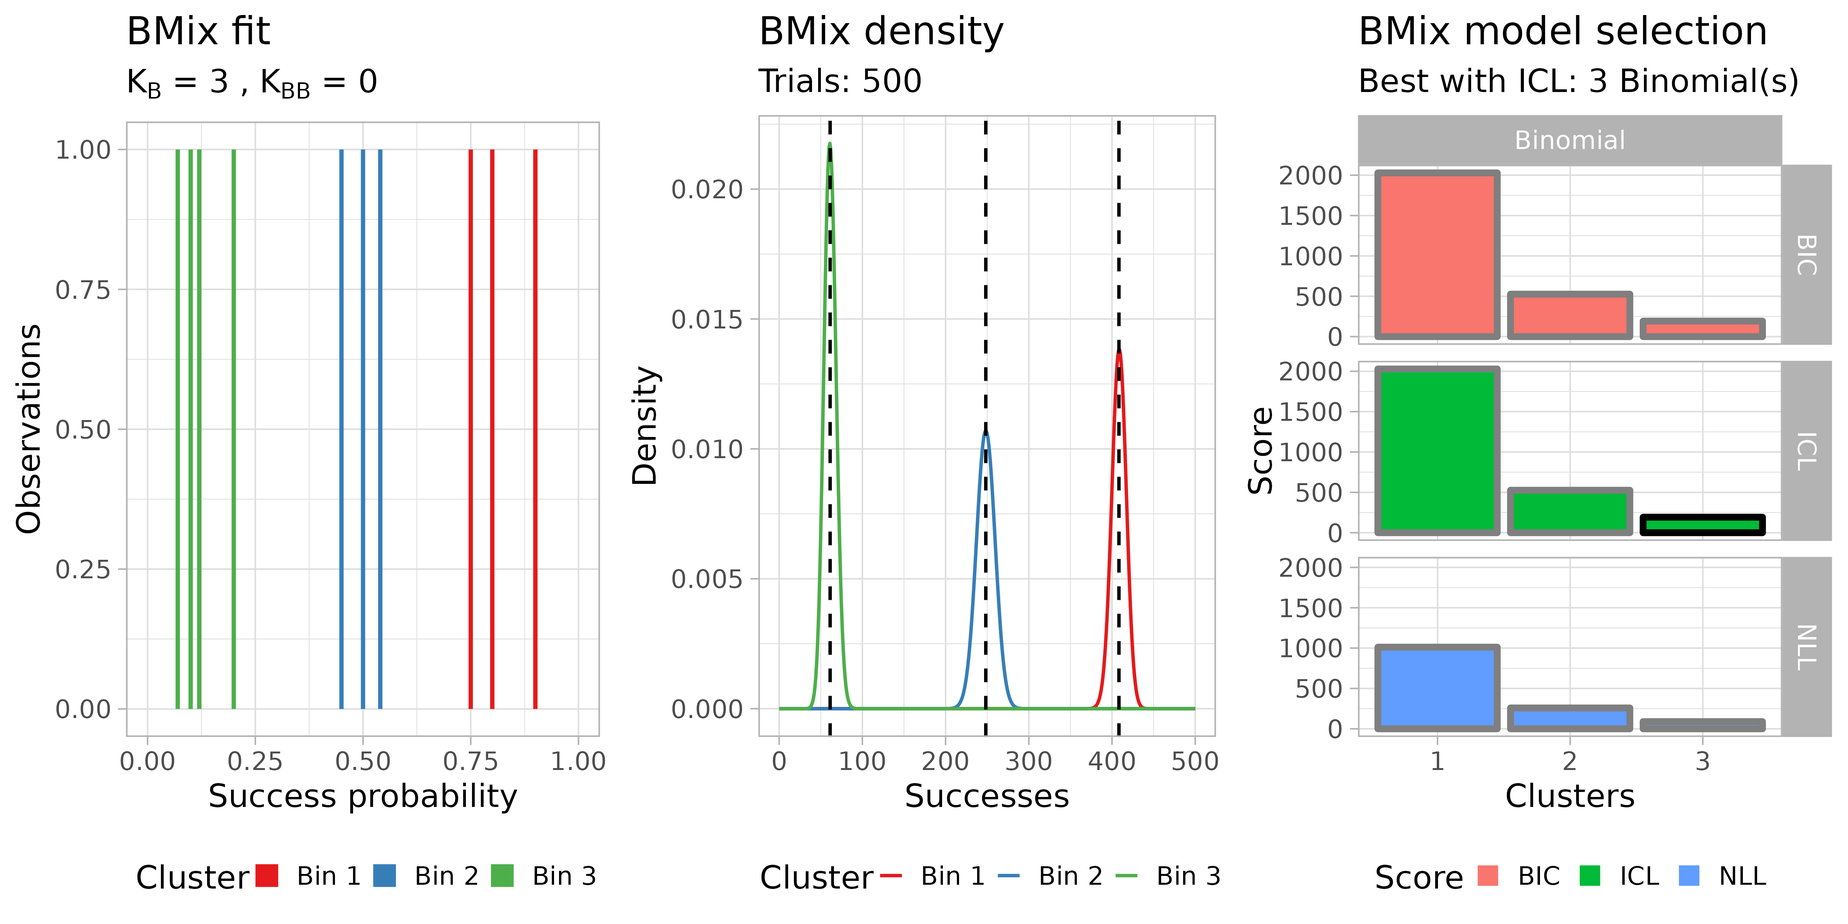
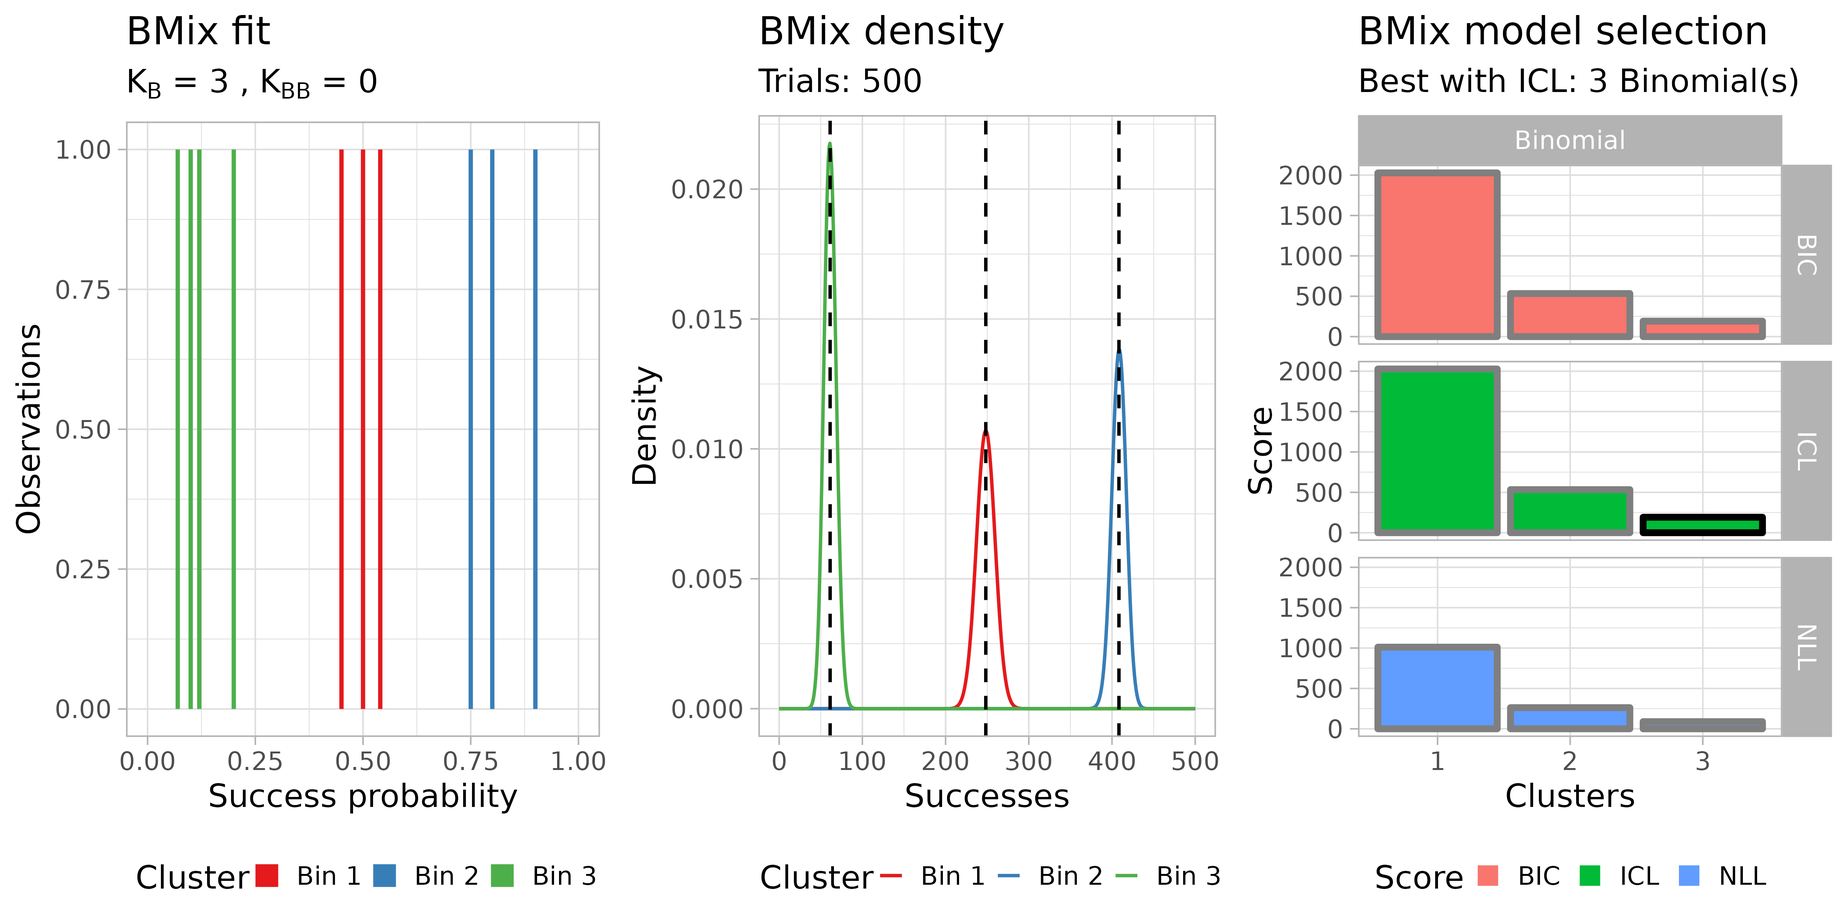
Deploying to gh-pages from @ caravagnalab/TAPACLOTH@b459b3f4f0f05527d034af44d3749eafd201754b 🚀

diff --git a/articles/classify-and-plot.html b/articles/classify-and-plot.html
@@ -266,7 +266,7 @@ q^{\text{loh}} = \inf\left\{x \in [x_1,\dots,x_N] \mid Pr(X\leq x)\geq \frac{2}{
            nv <span class="op">=</span> <span class="fu"><a href="https://rdrr.io/r/base/seq.html" class="external-link">seq</a></span><span class="op">(</span><span class="fl">10</span>,<span class="fl">100</span>,<span class="fl">4.6</span><span class="op">)</span> <span class="op"><a href="https://magrittr.tidyverse.org/reference/pipe.html" class="external-link">%&gt;%</a></span> <span class="fu"><a href="https://rdrr.io/r/base/Round.html" class="external-link">round</a></span><span class="op">(</span><span class="fl">0</span><span class="op">)</span>,
            dp <span class="op">=</span> <span class="fl">100</span>,
            VAF <span class="op">=</span> <span class="op">(</span><span class="fu"><a href="https://rdrr.io/r/base/seq.html" class="external-link">seq</a></span><span class="op">(</span><span class="fl">10</span>,<span class="fl">100</span>,<span class="fl">4.6</span><span class="op">)</span> <span class="op"><a href="https://magrittr.tidyverse.org/reference/pipe.html" class="external-link">%&gt;%</a></span> <span class="fu"><a href="https://rdrr.io/r/base/Round.html" class="external-link">round</a></span><span class="op">(</span><span class="fl">0</span><span class="op">)</span><span class="op">)</span><span class="op">/</span><span class="fl">100</span>,
-           purity <span class="op">=</span> <span class="fu"><a href="https://rdrr.io/r/base/Log.html" class="external-link">exp</a></span><span class="op">(</span><span class="fu"><a href="https://rdrr.io/r/base/Log.html" class="external-link">log</a></span><span class="op">(</span><span class="fl">10</span><span class="op">)</span><span class="op">*</span><span class="fu"><a href="https://rdrr.io/r/base/seq.html" class="external-link">seq</a></span><span class="op">(</span><span class="op">-</span><span class="fl">0.5</span>, <span class="fl">0</span>, length.out<span class="op">=</span><span class="fl">20</span><span class="op">)</span><span class="op">)</span> <span class="op"><a href="https://magrittr.tidyverse.org/reference/pipe.html" class="external-link">%&gt;%</a></span> <span class="fu"><a href="https://rdrr.io/r/base/Round.html" class="external-link">round</a></span><span class="op">(</span><span class="fl">1</span><span class="op">)</span>
+           purity <span class="op">=</span> <span class="fu"><a href="https://rdrr.io/r/base/Log.html" class="external-link">exp</a></span><span class="op">(</span><span class="fu"><a href="https://rdrr.io/r/base/Log.html" class="external-link">log</a></span><span class="op">(</span><span class="fl">10</span><span class="op">)</span><span class="op">*</span><span class="fu"><a href="https://rdrr.io/r/base/seq.html" class="external-link">seq</a></span><span class="op">(</span><span class="op">-</span><span class="fl">0.4</span>, <span class="fl">0</span>, length.out<span class="op">=</span><span class="fl">20</span><span class="op">)</span><span class="op">)</span> <span class="op"><a href="https://magrittr.tidyverse.org/reference/pipe.html" class="external-link">%&gt;%</a></span> <span class="fu"><a href="https://rdrr.io/r/base/Round.html" class="external-link">round</a></span><span class="op">(</span><span class="fl">1</span><span class="op">)</span>
 <span class="op">)</span></code></pre></div>
 <div class="sourceCode" id="cb5"><pre class="downlit sourceCode r">
 <code class="sourceCode R"><span class="va">classified_data</span> <span class="op">=</span> <span class="fu"><a href="../reference/run_classifier.html">run_classifier</a></span><span class="op">(</span>
@@ -281,28 +281,41 @@ q^{\text{loh}} = \inf\left\{x \in [x_1,\dots,x_N] \mid Pr(X\leq x)\geq \frac{2}{
 <span class="co">#&gt; <span style="color: #949494;"># A tibble: 20 × 7</span></span>
 <span class="co">#&gt;    sample  gene           nv    dp   VAF purity class_terzile   </span>
 <span class="co">#&gt;    <span style="color: #949494; font-style: italic;">&lt;chr&gt;</span>   <span style="color: #949494; font-style: italic;">&lt;chr&gt;</span>       <span style="color: #949494; font-style: italic;">&lt;dbl&gt;</span> <span style="color: #949494; font-style: italic;">&lt;dbl&gt;</span> <span style="color: #949494; font-style: italic;">&lt;dbl&gt;</span>  <span style="color: #949494; font-style: italic;">&lt;dbl&gt;</span> <span style="color: #949494; font-style: italic;">&lt;chr&gt;</span>           </span>
-<span class="co">#&gt; <span style="color: #BCBCBC;"> 1</span> test 1  target gene    10   100  0.1     0.3 Subclonal/Clonal</span>
-<span class="co">#&gt; <span style="color: #BCBCBC;"> 2</span> test 2  target gene    15   100  0.15    0.3 Subclonal/Clonal</span>
+<span class="co">#&gt; <span style="color: #BCBCBC;"> 1</span> test 1  target gene    10   100  0.1     0.4 Subclonal/Clonal</span>
+<span class="co">#&gt; <span style="color: #BCBCBC;"> 2</span> test 2  target gene    15   100  0.15    0.4 Subclonal/Clonal</span>
 <span class="co">#&gt; <span style="color: #BCBCBC;"> 3</span> test 3  target gene    19   100  0.19    0.4 Subclonal/Clonal</span>
-<span class="co">#&gt; <span style="color: #BCBCBC;"> 4</span> test 4  target gene    24   100  0.24    0.4 Subclonal/Clonal</span>
-<span class="co">#&gt; <span style="color: #BCBCBC;"> 5</span> test 5  target gene    28   100  0.28    0.4 Subclonal/Clonal</span>
-<span class="co">#&gt; <span style="color: #BCBCBC;"> 6</span> test 6  target gene    33   100  0.33    0.4 Subclonal/Clonal</span>
-<span class="co">#&gt; <span style="color: #BCBCBC;"> 7</span> test 7  target gene    38   100  0.38    0.5 Subclonal/Clonal</span>
-<span class="co">#&gt; <span style="color: #BCBCBC;"> 8</span> test 8  target gene    42   100  0.42    0.5 Clonal LOH      </span>
-<span class="co">#&gt; <span style="color: #BCBCBC;"> 9</span> test 9  target gene    47   100  0.47    0.5 Clonal LOH      </span>
-<span class="co">#&gt; <span style="color: #BCBCBC;">10</span> test 10 target gene    51   100  0.51    0.5 Clonal LOH      </span>
+<span class="co">#&gt; <span style="color: #BCBCBC;"> 4</span> test 4  target gene    24   100  0.24    0.5 Subclonal/Clonal</span>
+<span class="co">#&gt; <span style="color: #BCBCBC;"> 5</span> test 5  target gene    28   100  0.28    0.5 Subclonal/Clonal</span>
+<span class="co">#&gt; <span style="color: #BCBCBC;"> 6</span> test 6  target gene    33   100  0.33    0.5 Subclonal/Clonal</span>
+<span class="co">#&gt; <span style="color: #BCBCBC;"> 7</span> test 7  target gene    38   100  0.38    0.5 Clonal LOH      </span>
+<span class="co">#&gt; <span style="color: #BCBCBC;"> 8</span> test 8  target gene    42   100  0.42    0.6 Subclonal/Clonal</span>
+<span class="co">#&gt; <span style="color: #BCBCBC;"> 9</span> test 9  target gene    47   100  0.47    0.6 Clonal LOH      </span>
+<span class="co">#&gt; <span style="color: #BCBCBC;">10</span> test 10 target gene    51   100  0.51    0.6 Clonal LOH      </span>
 <span class="co">#&gt; <span style="color: #BCBCBC;">11</span> test 11 target gene    56   100  0.56    0.6 Clonal LOH      </span>
-<span class="co">#&gt; <span style="color: #BCBCBC;">12</span> test 12 target gene    61   100  0.61    0.6 Clonal LOH      </span>
+<span class="co">#&gt; <span style="color: #BCBCBC;">12</span> test 12 target gene    61   100  0.61    0.7 Clonal LOH      </span>
 <span class="co">#&gt; <span style="color: #BCBCBC;">13</span> test 13 target gene    65   100  0.65    0.7 Clonal LOH      </span>
 <span class="co">#&gt; <span style="color: #BCBCBC;">14</span> test 14 target gene    70   100  0.7     0.7 Clonal LOH      </span>
-<span class="co">#&gt; <span style="color: #BCBCBC;">15</span> test 15 target gene    74   100  0.74    0.7 Clonal LOH      </span>
+<span class="co">#&gt; <span style="color: #BCBCBC;">15</span> test 15 target gene    74   100  0.74    0.8 Clonal LOH      </span>
 <span class="co">#&gt; <span style="color: #BCBCBC;">16</span> test 16 target gene    79   100  0.79    0.8 Clonal LOH      </span>
-<span class="co">#&gt; <span style="color: #BCBCBC;">17</span> test 17 target gene    84   100  0.84    0.8 Clonal LOH      </span>
+<span class="co">#&gt; <span style="color: #BCBCBC;">17</span> test 17 target gene    84   100  0.84    0.9 Clonal LOH      </span>
 <span class="co">#&gt; <span style="color: #BCBCBC;">18</span> test 18 target gene    88   100  0.88    0.9 Clonal LOH      </span>
-<span class="co">#&gt; <span style="color: #BCBCBC;">19</span> test 19 target gene    93   100  0.93    0.9 Clonal LOH      </span>
+<span class="co">#&gt; <span style="color: #BCBCBC;">19</span> test 19 target gene    93   100  0.93    1   Clonal LOH      </span>
 <span class="co">#&gt; <span style="color: #BCBCBC;">20</span> test 20 target gene    97   100  0.97    1   Clonal LOH</span></code></pre></div>
 <div class="sourceCode" id="cb6"><pre class="downlit sourceCode r">
-<code class="sourceCode R"><span class="fu"><a href="https://rdrr.io/r/graphics/plot.default.html" class="external-link">plot</a></span><span class="op">(</span><span class="va">classified_data</span>, target_gene <span class="op">=</span> <span class="st">"target gene"</span>, sample_name <span class="op">=</span> <span class="st">"test 6"</span><span class="op">)</span>
+<code class="sourceCode R"><span class="fu">ggpubr</span><span class="fu">::</span><span class="fu"><a href="https://rpkgs.datanovia.com/ggpubr/reference/ggarrange.html" class="external-link">ggarrange</a></span><span class="op">(</span>plotlist <span class="op">=</span> <span class="fu"><a href="https://rdrr.io/r/base/list.html" class="external-link">list</a></span><span class="op">(</span>
+  <span class="fu"><a href="https://rdrr.io/r/graphics/plot.default.html" class="external-link">plot</a></span><span class="op">(</span>
+    <span class="va">classified_data</span>,
+    target_gene <span class="op">=</span> <span class="st">"target gene"</span>,
+    sample_name <span class="op">=</span> <span class="st">"test 7"</span>
+  <span class="op">)</span>,
+  <span class="fu"><a href="https://rdrr.io/r/graphics/plot.default.html" class="external-link">plot</a></span><span class="op">(</span>
+    <span class="va">classified_data</span>,
+    target_gene <span class="op">=</span> <span class="st">"target gene"</span>,
+    sample_name <span class="op">=</span> <span class="st">"test 8"</span>
+  <span class="op">)</span>
+<span class="op">)</span>,
+ncol <span class="op">=</span> <span class="fl">1</span>,
+nrow <span class="op">=</span> <span class="fl">2</span>, common.legend <span class="op">=</span> <span class="cn">T</span>, legend <span class="op">=</span> <span class="st">"bottom"</span><span class="op">)</span>
 <span class="co">#&gt; Warning: replacing previous import 'cli::num_ansi_colors' by</span>
 <span class="co">#&gt; 'crayon::num_ansi_colors' when loading 'BMix'</span>
 <span class="co">#&gt; Warning: replacing previous import 'crayon::%+%' by 'ggplot2::%+%' when loading</span>
@@ -311,12 +324,10 @@ q^{\text{loh}} = \inf\left\{x \in [x_1,\dots,x_N] \mid Pr(X\leq x)\geq \frac{2}{
 <span class="co">#&gt; Warning: replacing previous import 'cli::num_ansi_colors' by</span>
 <span class="co">#&gt; 'crayon::num_ansi_colors' when loading 'easypar'</span>
 <span class="co">#&gt; <span style="color: #00BB00;">✔</span> Loading <span style="color: #00BB00;">CNAqc</span>, <span style="font-style: italic;">'Copy Number Alteration quality check'</span>. Support : <span style="color: #0000BB; font-style: italic;">&lt;https://caravagn.github.io/CNAqc/&gt;</span></span>
-<span class="co">#&gt; Warning: Removed 2 rows containing missing values (geom_bar).</span></code></pre></div>
-<p><img src="classify-and-plot_files/figure-html/unnamed-chunk-6-1.png" width="2187.5"></p>
-<div class="sourceCode" id="cb7"><pre class="downlit sourceCode r">
-<code class="sourceCode R"><span class="fu"><a href="https://rdrr.io/r/graphics/plot.default.html" class="external-link">plot</a></span><span class="op">(</span><span class="va">classified_data</span>, target_gene <span class="op">=</span> <span class="st">"target gene"</span>, sample_name <span class="op">=</span> <span class="st">"test 7"</span><span class="op">)</span>
-<span class="co">#&gt; Warning: Removed 2 rows containing missing values (geom_bar).</span></code></pre></div>
-<p><img src="classify-and-plot_files/figure-html/unnamed-chunk-6-2.png" width="2187.5"> The test shows how TAPACLOTH classification using the terzile model allows to take into account the confounding effect of sample purity we would have by classifying mutations based only on VAF: the variant observed in sample “test 7” has a larger VAF than the one in sample “test 6”, but is not classified too as Clonal LOH due to the adjustment of VAF for the larger sample purity.</p>
+<span class="co">#&gt; Warning: Removed 2 rows containing missing values (geom_bar).</span>
+<span class="co">#&gt; Warning: Removed 2 rows containing missing values (geom_bar).</span>
+<span class="co">#&gt; Removed 2 rows containing missing values (geom_bar).</span></code></pre></div>
+<p><img src="classify-and-plot_files/figure-html/unnamed-chunk-6-1.png" width="1500"> The test shows how TAPACLOTH classification using the terzile model allows to take into account the confounding effect of sample purity we would have by classifying mutations based only on VAF: the variant observed in sample “test 8” has a larger VAF than the one in sample “test 7”, but is not classified too as Clonal LOH due to the adjustment of VAF for the larger sample purity.</p>
 </div>
 </div>
   </main><aside class="col-md-3"><nav id="toc"><h2>On this page</h2>

diff --git a/articles/purity-estimates.html b/articles/purity-estimates.html
@@ -173,7 +173,7 @@
 <span class="co">#&gt; • Binomial <span style="color: #00BB00;">Bin 1</span> with mean = 0.496666666666667.</span>
 <span class="co">#&gt; • Binomial <span style="color: #00BB00;">Bin 2</span> with mean = 0.1225.</span>
 <span class="co">#&gt; • Binomial <span style="color: #00BB00;">Bin 3</span> with mean = 0.816666666666667.</span>
-<span class="co">#&gt; <span style="color: #00BBBB;">ℹ</span> Score (model selection): <span style="color: #00BB00;">ICL</span> = 197.45.</span>
+<span class="co">#&gt; <span style="color: #00BBBB;">ℹ</span> Score (model selection): <span style="color: #00BB00;">ICL</span> = 188.55.</span>
 <span class="co">#&gt; Warning: `guides(&lt;scale&gt; = FALSE)` is deprecated. Please use `guides(&lt;scale&gt; =</span>
 <span class="co">#&gt; "none")` instead.</span>
 <span class="co">#&gt; Warning: Removed 6 rows containing missing values (geom_bar).</span>
@@ -186,7 +186,7 @@
 <span class="co">#&gt; • Binomial <span style="color: #00BB00;">Bin 1</span> with mean = 0.496666666666667.</span>
 <span class="co">#&gt; • Binomial <span style="color: #00BB00;">Bin 2</span> with mean = 0.1225.</span>
 <span class="co">#&gt; • Binomial <span style="color: #00BB00;">Bin 3</span> with mean = 0.816666666666667.</span>
-<span class="co">#&gt; <span style="color: #00BBBB;">ℹ</span> Score (model selection): <span style="color: #00BB00;">ICL</span> = 197.45.</span>
+<span class="co">#&gt; <span style="color: #00BBBB;">ℹ</span> Score (model selection): <span style="color: #00BB00;">ICL</span> = 188.55.</span>
 <span class="co">#&gt; ── <span style="color: #000000; background-color: #BB00BB;">[ TAPACLOTH ] </span> Data:  ───────────────────────────────────────────────────────</span>
 <span class="co">#&gt; <span style="color: #949494;"># A tibble: 10 × 8</span></span>
 <span class="co">#&gt;    sample gene            nv    dp   VAF purity purity_bmix reliability</span>
@@ -239,10 +239,10 @@
 <span class="co">#&gt; <span style="color: #00BBBB;">ℹ</span> <span style="font-weight: bold;">Bmix best fit</span> completed in 0 mins</span>
 <span class="co">#&gt; ── <span style="color: #000000; background-color: #BBBB00;">[ BMix ] My BMix model</span> n = 10 with <span style="color: #00BB00;">k = 3</span> component(s) (<span style="color: #00BB00;">3</span> + <span style="color: #00BB00;">0</span>) ───────────────</span>
 <span class="co">#&gt; • Clusters: π = 40% [<span style="color: #BBBB00;">Bin 3</span>], 30% [<span style="color: #BBBB00;">Bin 1</span>], and 30% [<span style="color: #BBBB00;">Bin 2</span>], with π &gt; 0.</span>
-<span class="co">#&gt; • Binomial <span style="color: #00BB00;">Bin 1</span> with mean = 0.816666666666667.</span>
-<span class="co">#&gt; • Binomial <span style="color: #00BB00;">Bin 2</span> with mean = 0.496666666666667.</span>
+<span class="co">#&gt; • Binomial <span style="color: #00BB00;">Bin 1</span> with mean = 0.496666666666667.</span>
+<span class="co">#&gt; • Binomial <span style="color: #00BB00;">Bin 2</span> with mean = 0.816666666666667.</span>
 <span class="co">#&gt; • Binomial <span style="color: #00BB00;">Bin 3</span> with mean = 0.1225.</span>
-<span class="co">#&gt; <span style="color: #00BBBB;">ℹ</span> Score (model selection): <span style="color: #00BB00;">ICL</span> = 192.39.</span>
+<span class="co">#&gt; <span style="color: #00BBBB;">ℹ</span> Score (model selection): <span style="color: #00BB00;">ICL</span> = 191.78.</span>
 <span class="co">#&gt; Warning: `guides(&lt;scale&gt; = FALSE)` is deprecated. Please use `guides(&lt;scale&gt; =</span>
 <span class="co">#&gt; "none")` instead.</span>
 <span class="co">#&gt; Warning: Removed 6 rows containing missing values (geom_bar).</span>
@@ -252,10 +252,10 @@
 <span class="co">#&gt; ── <span style="color: #000000; background-color: #BB00BB;">[ TAPACLOTH ] </span> Purity estimate using BMix:  ─────────────────────────────────</span>
 <span class="co">#&gt; ── <span style="color: #000000; background-color: #BBBB00;">[ BMix ] My BMix model</span> n = 10 with <span style="color: #00BB00;">k = 3</span> component(s) (<span style="color: #00BB00;">3</span> + <span style="color: #00BB00;">0</span>) ───────────────</span>
 <span class="co">#&gt; • Clusters: π = 40% [<span style="color: #BBBB00;">Bin 3</span>], 30% [<span style="color: #BBBB00;">Bin 1</span>], and 30% [<span style="color: #BBBB00;">Bin 2</span>], with π &gt; 0.</span>
-<span class="co">#&gt; • Binomial <span style="color: #00BB00;">Bin 1</span> with mean = 0.816666666666667.</span>
-<span class="co">#&gt; • Binomial <span style="color: #00BB00;">Bin 2</span> with mean = 0.496666666666667.</span>
+<span class="co">#&gt; • Binomial <span style="color: #00BB00;">Bin 1</span> with mean = 0.496666666666667.</span>
+<span class="co">#&gt; • Binomial <span style="color: #00BB00;">Bin 2</span> with mean = 0.816666666666667.</span>
 <span class="co">#&gt; • Binomial <span style="color: #00BB00;">Bin 3</span> with mean = 0.1225.</span>
-<span class="co">#&gt; <span style="color: #00BBBB;">ℹ</span> Score (model selection): <span style="color: #00BB00;">ICL</span> = 192.39.</span>
+<span class="co">#&gt; <span style="color: #00BBBB;">ℹ</span> Score (model selection): <span style="color: #00BB00;">ICL</span> = 191.78.</span>
 <span class="co">#&gt; ── <span style="color: #000000; background-color: #BB00BB;">[ TAPACLOTH ] </span> Data:  ───────────────────────────────────────────────────────</span>
 <span class="co">#&gt; <span style="color: #949494;"># A tibble: 10 × 8</span></span>
 <span class="co">#&gt;    sample gene            nv    dp   VAF purity purity_bmix reliability</span>
@@ -322,11 +322,11 @@
 <span class="co">#&gt; <span style="color: #00BBBB;">ℹ</span> Binomials k_B = <span style="color: #00BB00;">1</span>, <span style="color: #00BB00;">2</span>, and <span style="color: #00BB00;">3</span>, Beta-Binomials k_BB = <span style="color: #00BB00;">0</span>; 6 fits to run.</span>
 <span class="co">#&gt; <span style="color: #00BBBB;">ℹ</span> <span style="font-weight: bold;">Bmix best fit</span> completed in 0 mins</span>
 <span class="co">#&gt; ── <span style="color: #000000; background-color: #BBBB00;">[ BMix ] My BMix model</span> n = 10 with <span style="color: #00BB00;">k = 3</span> component(s) (<span style="color: #00BB00;">3</span> + <span style="color: #00BB00;">0</span>) ───────────────</span>
-<span class="co">#&gt; • Clusters: π = 40% [<span style="color: #BBBB00;">Bin 1</span>], 30% [<span style="color: #BBBB00;">Bin 2</span>], and 30% [<span style="color: #BBBB00;">Bin 3</span>], with π &gt; 0.</span>
-<span class="co">#&gt; • Binomial <span style="color: #00BB00;">Bin 1</span> with mean = 0.1225.</span>
+<span class="co">#&gt; • Clusters: π = 40% [<span style="color: #BBBB00;">Bin 3</span>], 30% [<span style="color: #BBBB00;">Bin 1</span>], and 30% [<span style="color: #BBBB00;">Bin 2</span>], with π &gt; 0.</span>
+<span class="co">#&gt; • Binomial <span style="color: #00BB00;">Bin 1</span> with mean = 0.496666666666667.</span>
 <span class="co">#&gt; • Binomial <span style="color: #00BB00;">Bin 2</span> with mean = 0.816666666666667.</span>
-<span class="co">#&gt; • Binomial <span style="color: #00BB00;">Bin 3</span> with mean = 0.496666666666667.</span>
-<span class="co">#&gt; <span style="color: #00BBBB;">ℹ</span> Score (model selection): <span style="color: #00BB00;">ICL</span> = 190.38.</span>
+<span class="co">#&gt; • Binomial <span style="color: #00BB00;">Bin 3</span> with mean = 0.1225.</span>
+<span class="co">#&gt; <span style="color: #00BBBB;">ℹ</span> Score (model selection): <span style="color: #00BB00;">ICL</span> = 192.22.</span>
 <span class="co">#&gt; Warning: `guides(&lt;scale&gt; = FALSE)` is deprecated. Please use `guides(&lt;scale&gt; =</span>
 <span class="co">#&gt; "none")` instead.</span>
 <span class="co">#&gt; Warning: Removed 6 rows containing missing values (geom_bar).</span>

diff --git a/reference/estimate_purity.html b/reference/estimate_purity.html
@@ -91,13 +91,8 @@ the one which is closest to the input purity estimate is used for the new estima
     <h2 id="value">Value<a class="anchor" aria-label="anchor" href="#value"></a></h2>
     
 
-<p>A list containing:</p><ul><li><p>the input table reduced to the selected sample, with
-additional columns <code>purity_bmix</code> for the inferred purity and <code>reliability</code> for
-the reliability score of the input purity (if available)</p></li>
-<li><p>an object of class <code>bmix</code> that represents a fit mixtur</p></li>
-<li><p>the inferred sample purity and</p></li>
-<li><p>a figure showing results of the fit.</p></li>
-</ul></div>
+<p>An object of class <code>TAPACLOTH</code> containing the inferred purity.</p>
+    </div>
 
   </main><aside class="col-md-3"><nav id="toc"><h2>On this page</h2>
     </nav></aside></div>

diff --git a/reference/run_classifier.html b/reference/run_classifier.html
@@ -93,10 +93,7 @@ of the expected distribution used for the test.</p></dd>
     <h2 id="value">Value<a class="anchor" aria-label="anchor" href="#value"></a></h2>
     
 
-<p>A list containing the input table reduced to the selected sample, with
-the additional 'class' column accounting for the classification, the chosen
-model, over-dispersion parameter (NA if the model is not Beta-Binomial) and
-significance level used in the test.</p>
+<p>An object of class <code>TAPACLOTH</code> that represents the classified input data.</p>
     </div>
 
   </main><aside class="col-md-3"><nav id="toc"><h2>On this page</h2>
